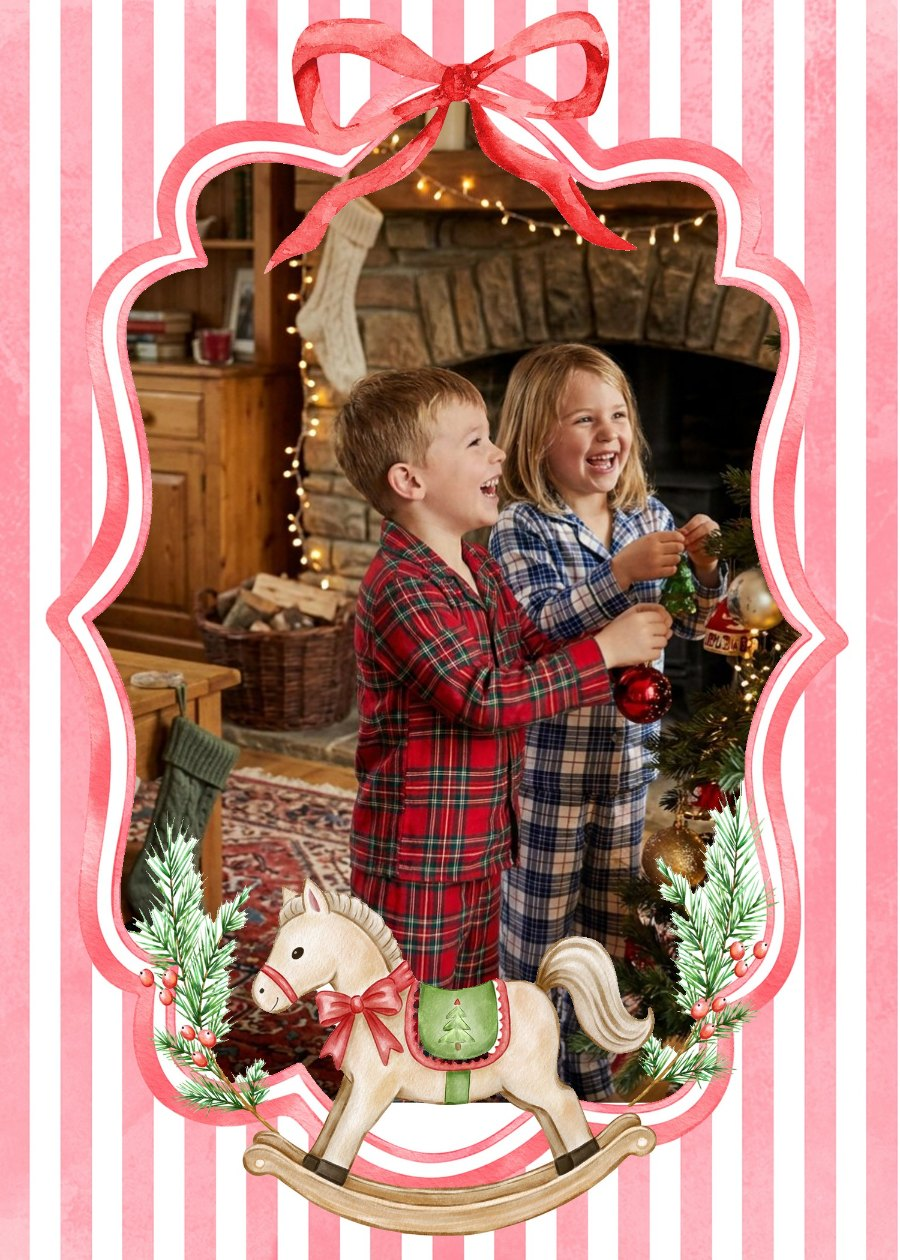
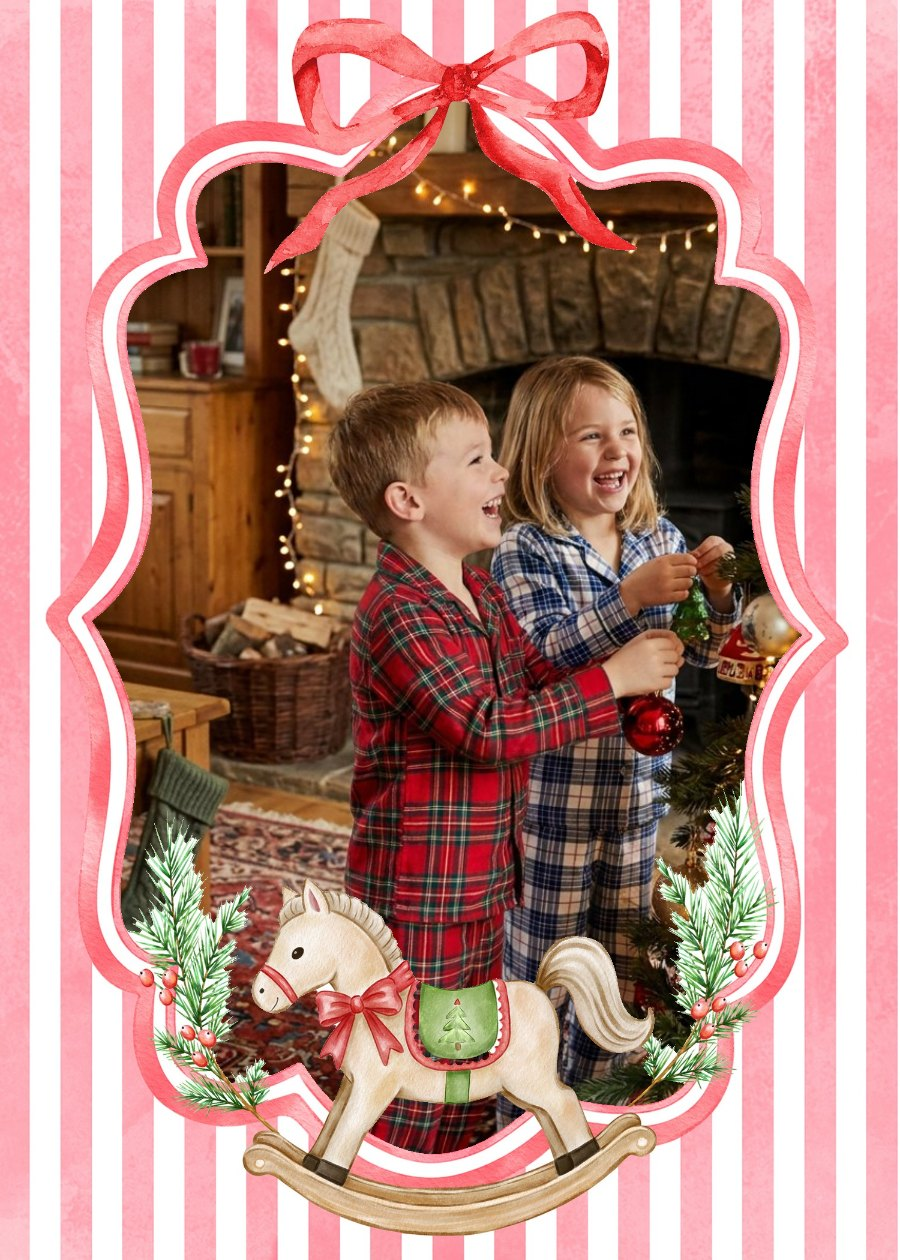
Rocking Horse: photo reaches the frame's red line under the belly
Claude-Session: https://claude.ai/code/session_0156pdi9V1ebMvpSVLSuGcoY

Changed region(s): [[0.1244, 0.0929, 0.9022, 0.8976], [0.4044, 0.8357, 0.5911, 0.9286], [0.4044, 0.0929, 0.4356, 0.1238]]

diff --git a/kemp-sons-site/src/editor/templates/christmas-photo-frames.ts b/kemp-sons-site/src/editor/templates/christmas-photo-frames.ts
@@ -150,8 +150,8 @@ const CARDS: Card[] = [
     id: 'rocking-horse',
     name: 'Rocking Horse',
     description: 'Soft pink stripes, a ribbon frame tied with a bow and a little rocking horse beneath your photo.',
-    win: [0.5133,  0.5667,  3.94,  5.55],
-    over: [0.4867,  0.54,  3.9933,  5.6033],
+    win: [0.5133, 0.5667, 3.94, 5.84],
+    over: [0.4867, 0.54, 3.9933, 5.8933],
     back: { ink: '#d0506a' },
   },
   {
